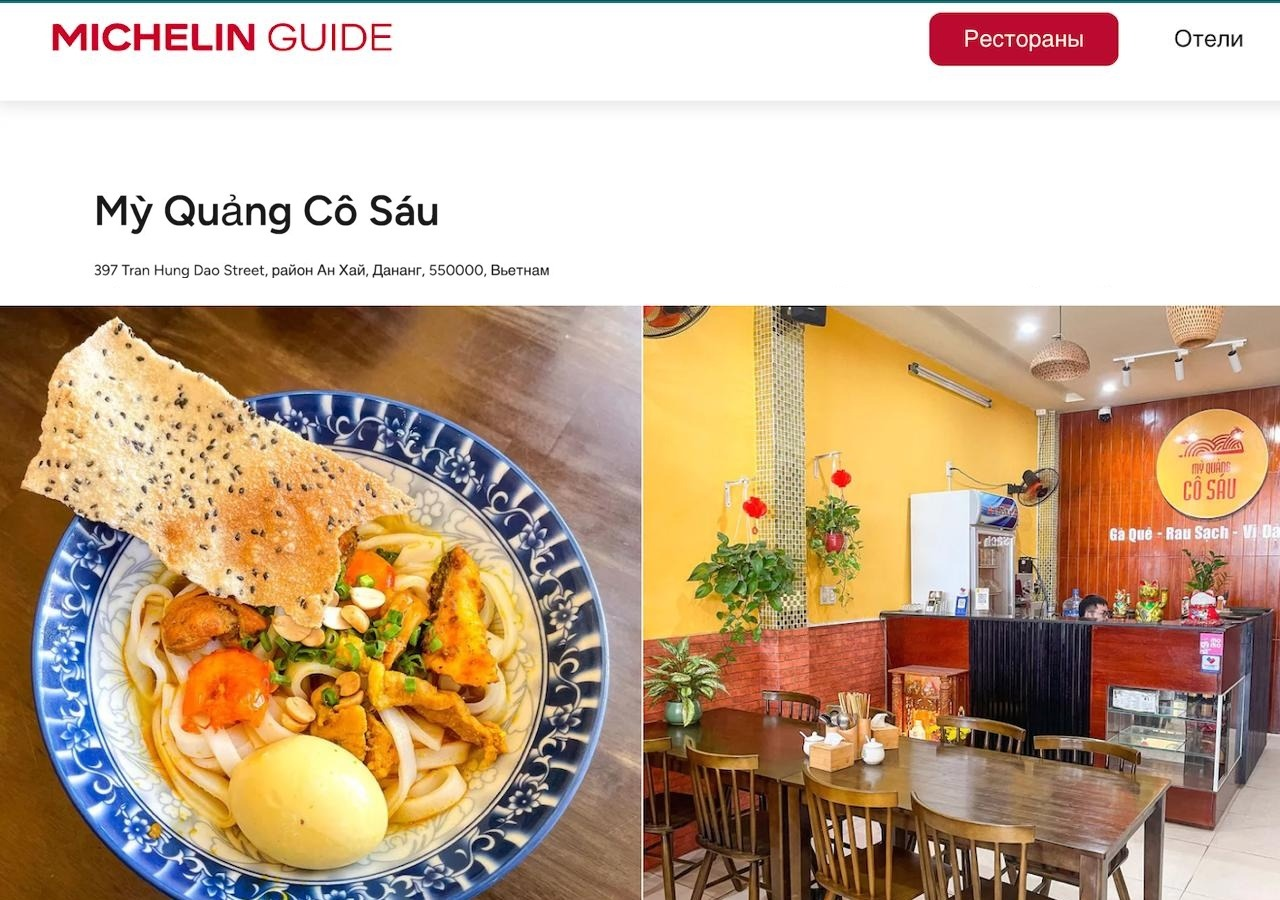
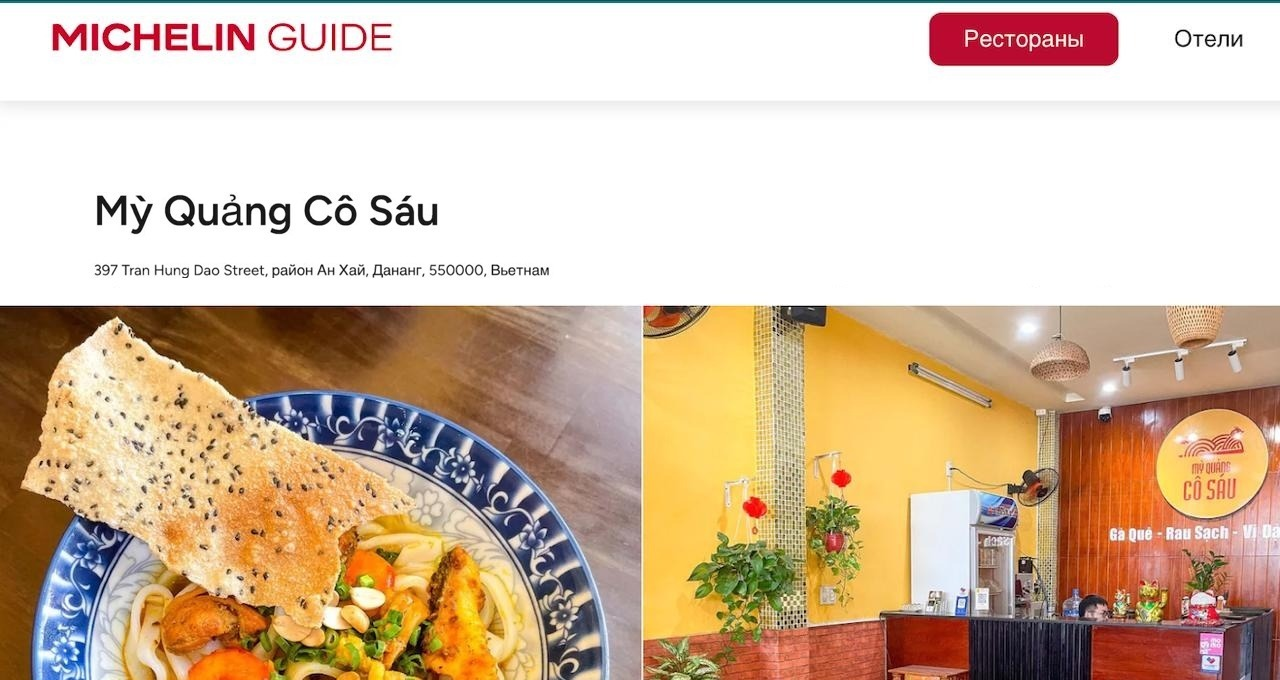
mi quang: crop photo to 680px, remove padding-top

diff --git a/narada-site/index.html b/narada-site/index.html
@@ -546,7 +546,7 @@ footer p { font-size: 12px; color: rgba(255,255,255,0.25); }
     <!-- Ресторан 2 — Ми Куанг -->
     <div class="gc" style="padding:0;overflow:hidden;border:none;flex-direction:column;justify-content:flex-start;">
       <img src="images/rest-miquang.jpg" alt="Mì Quảng — Michelin Guide" style="width:100%;display:block;height:auto;">
-      <div style="background:linear-gradient(to bottom,rgba(0,0,0,0) 0%,rgba(0,0,0,0.88) 100%);padding:6px 18px 18px;">
+      <div style="background:linear-gradient(to bottom,rgba(0,0,0,0) 0%,rgba(0,0,0,0.88) 100%);padding:0 18px 18px;">
         <a href="https://maps.app.goo.gl/vBuhMQAW8sUfcG9E6" target="_blank" rel="noopener"
            style="display:block;color:#111;font-size:11px;font-weight:500;text-decoration:none;margin-bottom:8px;">Ресторан из гида Мишлен в Дананге →</a>
         <div style="color:#fff;font-size:14px;font-weight:700;line-height:1.4;margin-bottom:5px;">Ми Куанг — кулинарная икона Центрального Вьетнама</div>
